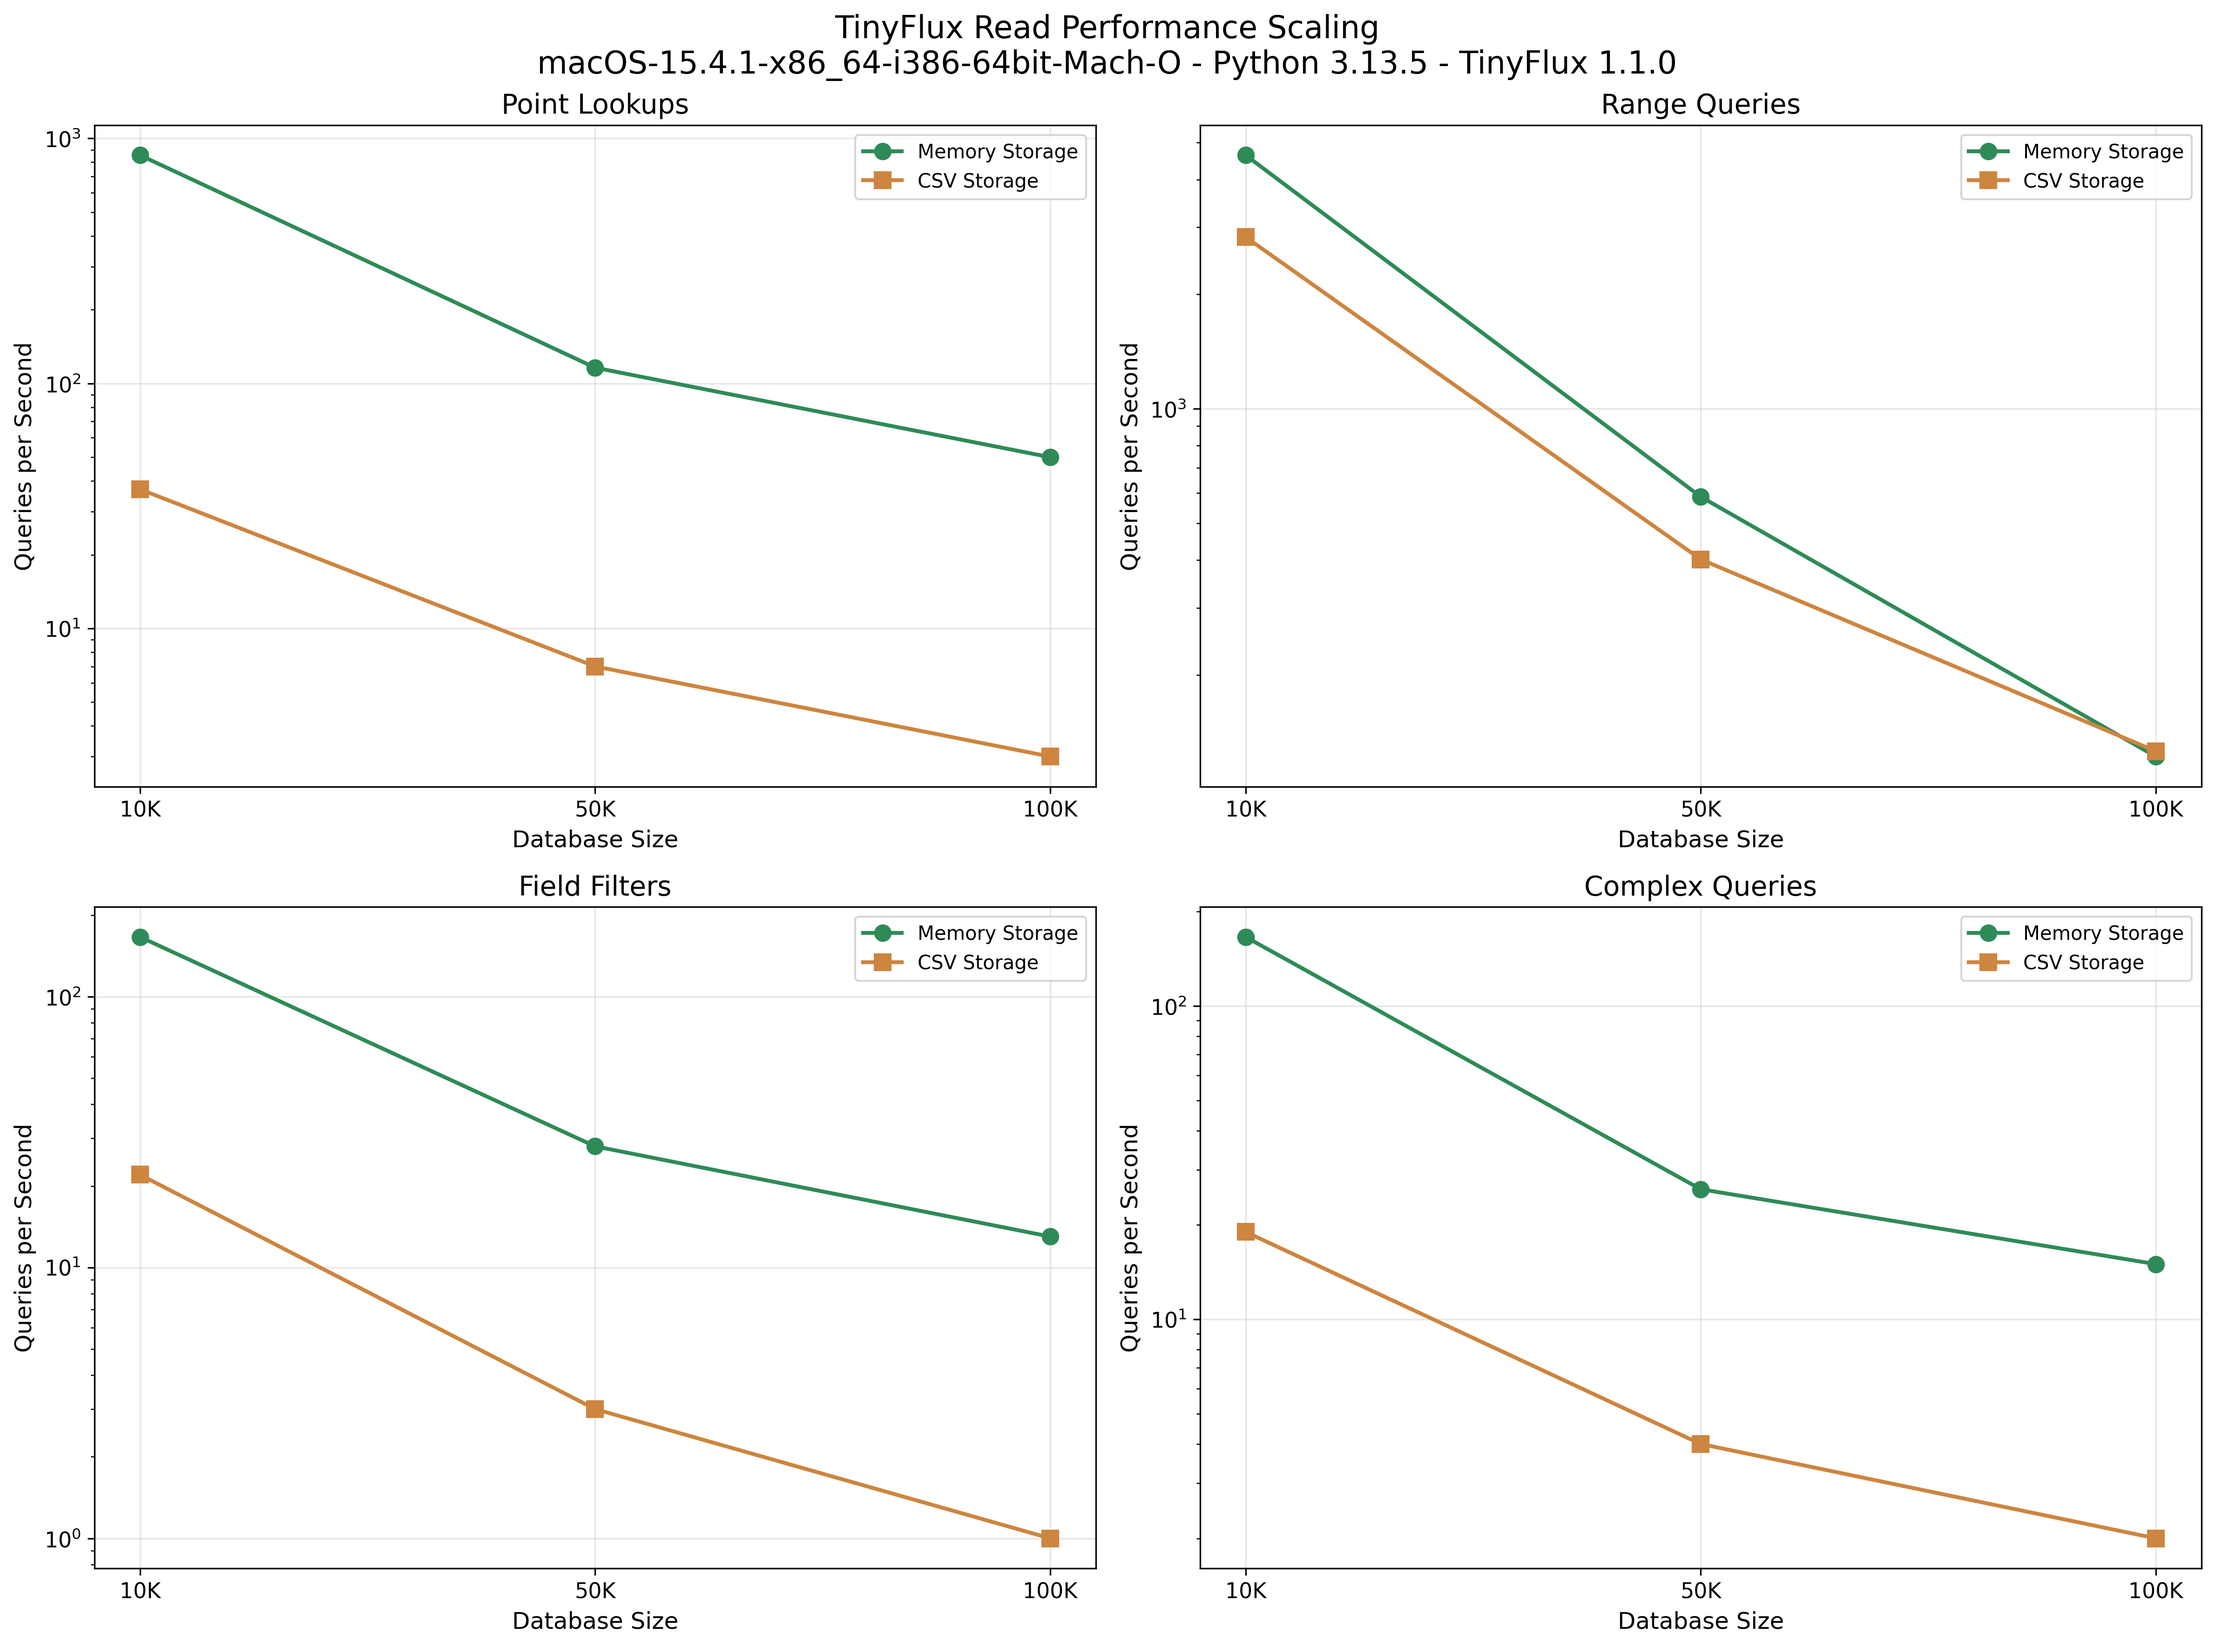
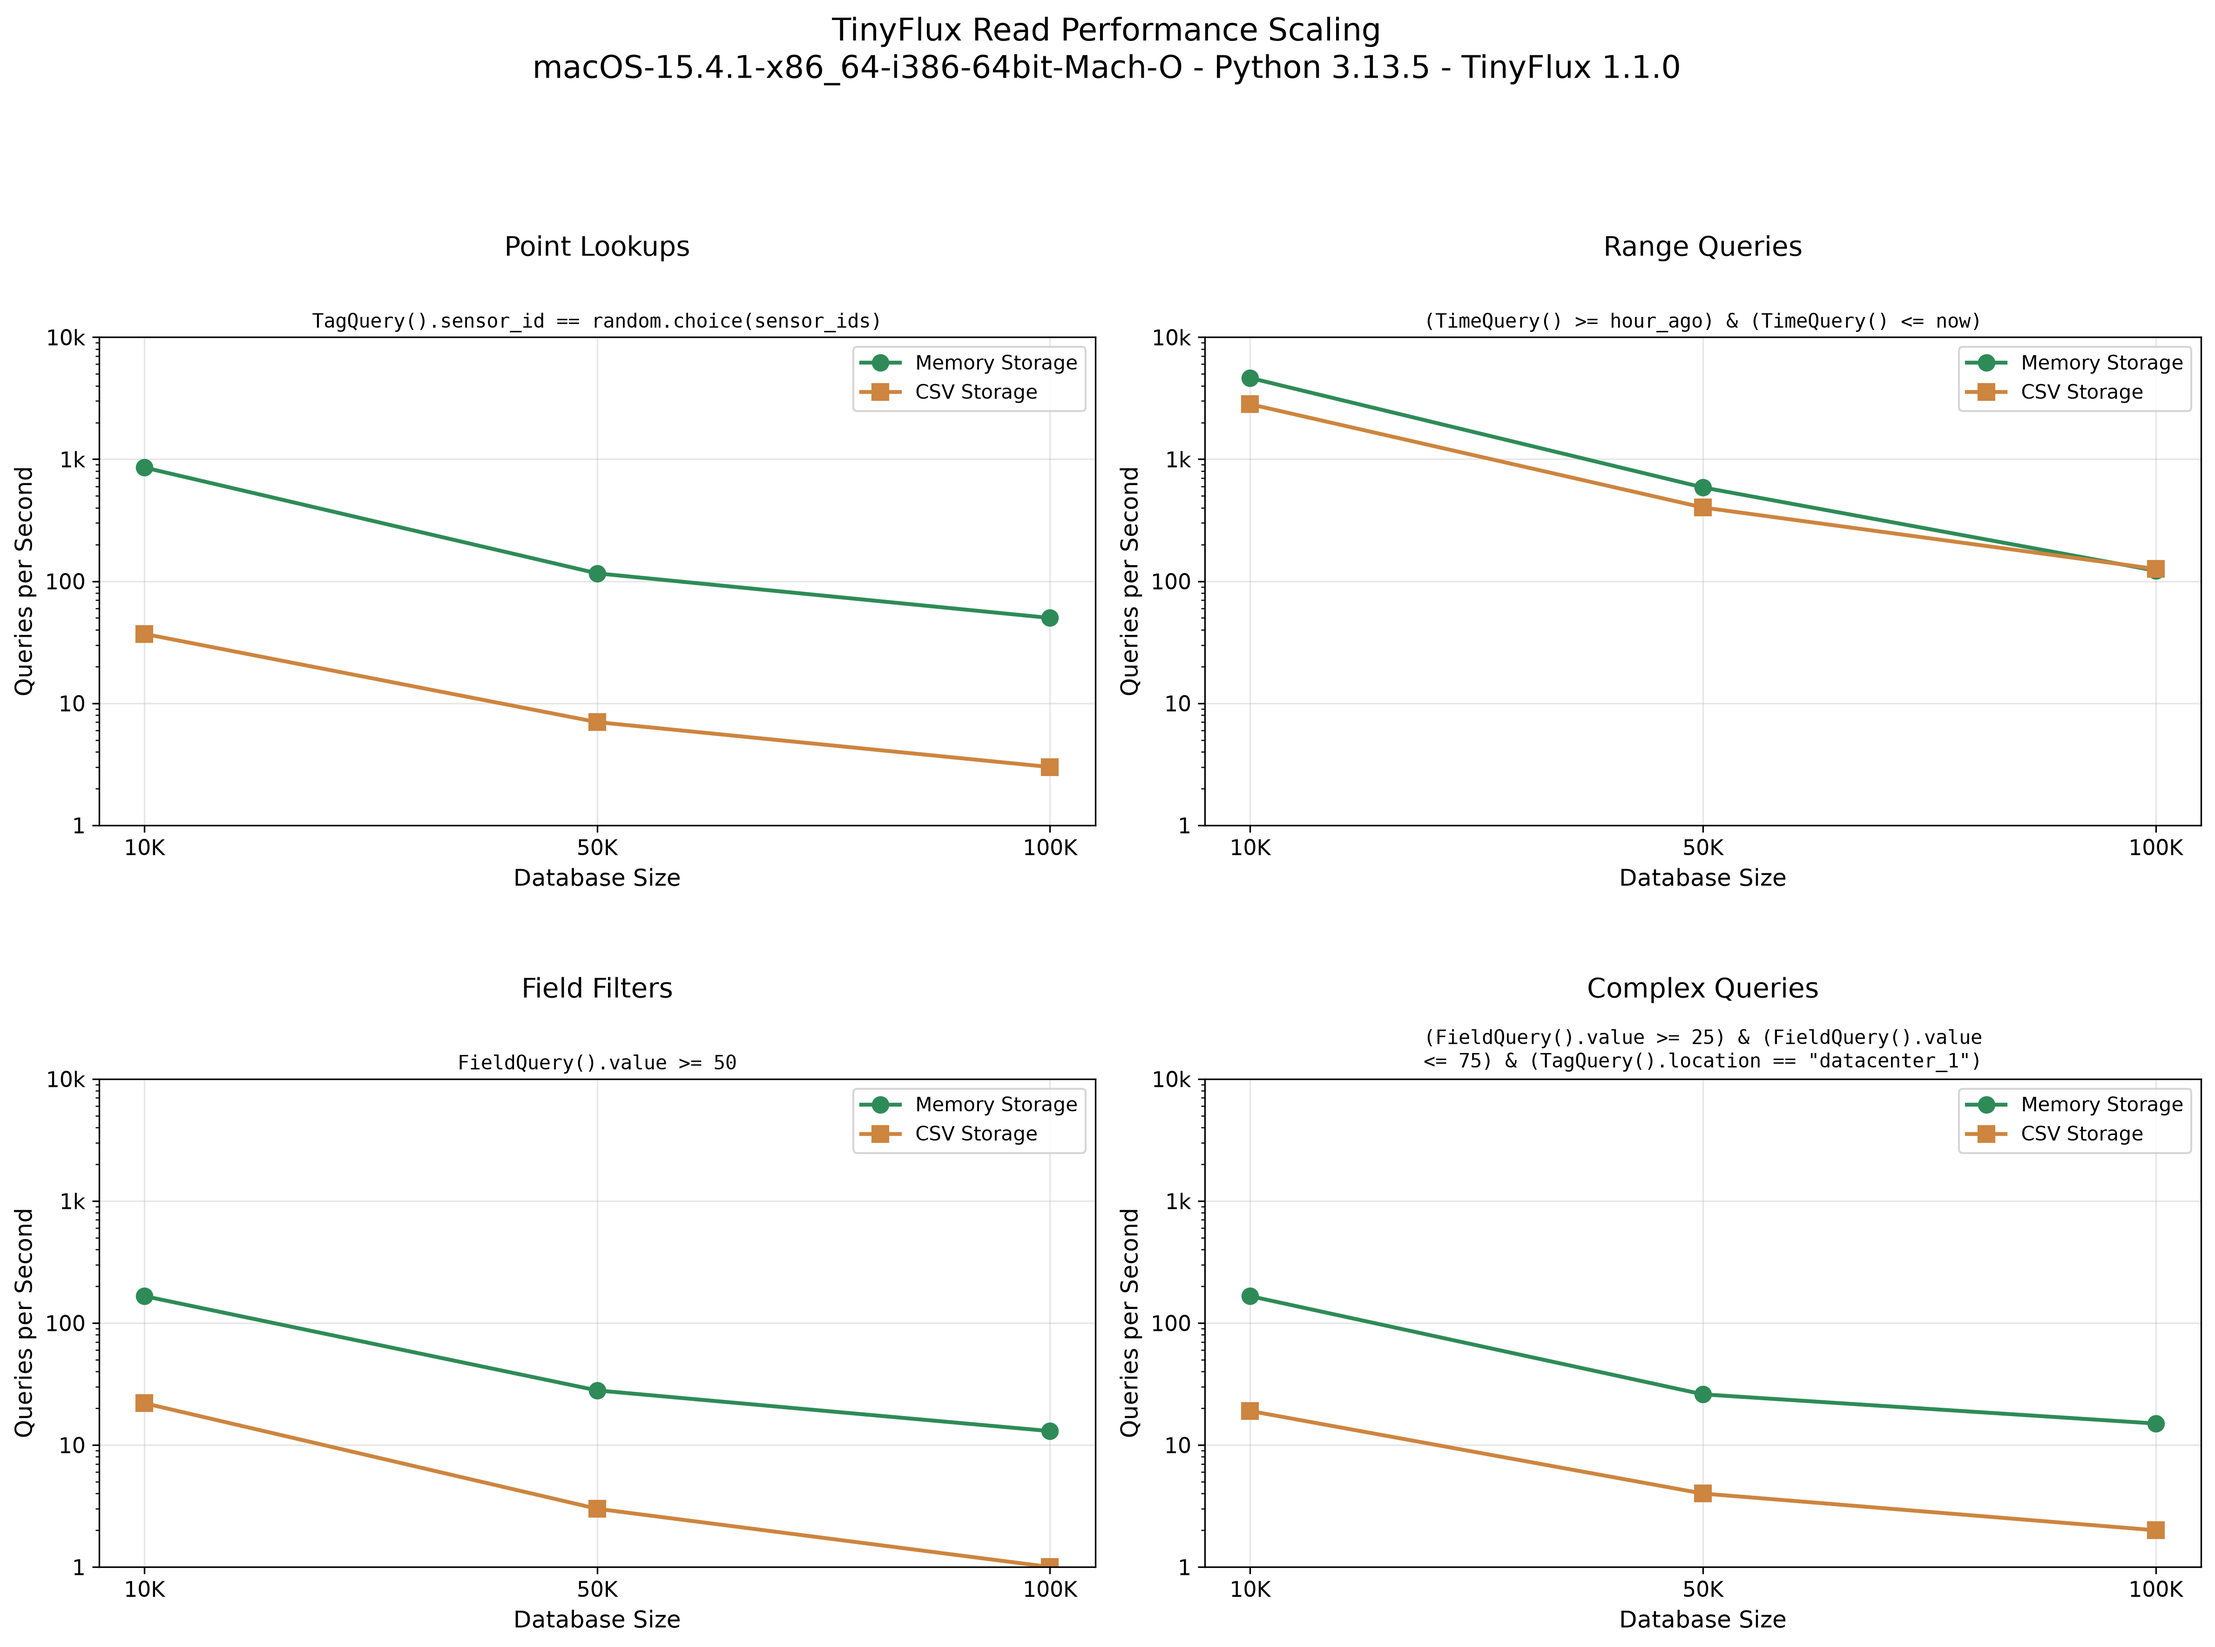
docs: clarify read performance chart queries

diff --git a/performance_tests/visualize_performance.py b/performance_tests/visualize_performance.py
@@ -6,6 +6,7 @@ Generates performance charts from benchmark results JSON file.
 """
 
 import json
+import textwrap
 import matplotlib.pyplot as plt
 import matplotlib.patches as mpatches
 from matplotlib.ticker import FuncFormatter
@@ -46,6 +47,43 @@ def set_shared_row_axis(*axes_and_values: Any) -> None:
     for axis, _ in axes_and_values:
         axis.set_ylim(0, y_max)
         axis.yaxis.set_major_formatter(FuncFormatter(format_compact_number))
+
+
+def set_shared_log_axis(axes: List[Any], values: List[float]) -> None:
+    """Use one log-scale y-axis range and compact tick labels for charts."""
+    positive_values = [value for value in values if value > 0]
+    if not positive_values:
+        return
+
+    y_min = 10 ** np.floor(np.log10(min(positive_values)))
+    y_max = 10 ** np.ceil(np.log10(max(positive_values)))
+    ticks = [
+        10**power
+        for power in range(int(np.log10(y_min)), int(np.log10(y_max)) + 1)
+    ]
+
+    for axis in axes:
+        axis.set_ylim(y_min, y_max)
+        axis.set_yticks(ticks)
+        axis.yaxis.set_major_formatter(FuncFormatter(format_compact_number))
+
+
+def set_query_title(axis: Any, title: str, code: str) -> None:
+    """Set a chart title with the query shown below in monospace."""
+    wrapped_code = "\n".join(
+        textwrap.wrap(code, width=50, break_long_words=False)
+    )
+    axis.set_title(title, pad=42)
+    axis.text(
+        0.5,
+        1.01,
+        wrapped_code,
+        transform=axis.transAxes,
+        ha="center",
+        va="bottom",
+        fontfamily="monospace",
+        fontsize=10,
+    )
 
 
 def load_results(file_path: str = "performance_results.json") -> Dict[str, Any]:
@@ -272,15 +310,38 @@ def plot_read_performance_scaling(
     x_pos = np.arange(len(sizes))
 
     query_types = [
-        ("point_lookup", "Point Lookups", ax1),
-        ("range_query", "Range Queries", ax2),
-        ("field_filter", "Field Filters", ax3),
-        ("complex_query", "Complex Queries", ax4),
+        (
+            "point_lookup",
+            "Point Lookups",
+            "TagQuery().sensor_id == random.choice(sensor_ids)",
+            ax1,
+        ),
+        (
+            "range_query",
+            "Range Queries",
+            "(TimeQuery() >= hour_ago) & (TimeQuery() <= now)",
+            ax2,
+        ),
+        (
+            "field_filter",
+            "Field Filters",
+            "FieldQuery().value >= 50",
+            ax3,
+        ),
+        (
+            "complex_query",
+            "Complex Queries",
+            '(FieldQuery().value >= 25) & (FieldQuery().value <= 75) & (TagQuery().location == "datacenter_1")',
+            ax4,
+        ),
     ]
+    shared_values = []
 
-    for qt, title, ax in query_types:
+    for qt, title, code, ax in query_types:
         memory_data = read_data[f"memory_{qt}"]
         csv_data = read_data[f"csv_{qt}"]
+        shared_values.extend(memory_data)
+        shared_values.extend(csv_data)
 
         ax.plot(
             x_pos,
@@ -303,7 +364,7 @@ def plot_read_performance_scaling(
 
         ax.set_xlabel("Database Size")
         ax.set_ylabel("Queries per Second")
-        ax.set_title(title)
+        set_query_title(ax, title, code)
         ax.set_xticks(x_pos)
         ax.set_xticklabels(
             [
@@ -315,6 +376,8 @@ def plot_read_performance_scaling(
         ax.grid(True, alpha=0.3)
         ax.set_yscale("log")
 
+    set_shared_log_axis([ax1, ax2, ax3, ax4], shared_values)
+
     # Add system info
     system_info = results.get("system_info", {})
     fig.suptitle(
@@ -324,7 +387,7 @@ def plot_read_performance_scaling(
         fontsize=16,
     )
 
-    plt.tight_layout()
+    plt.tight_layout(rect=[0, 0, 1, 0.92], h_pad=4.0)
     plt.savefig(
         "charts/read_performance_scaling.png", dpi=300, bbox_inches="tight"
     )
